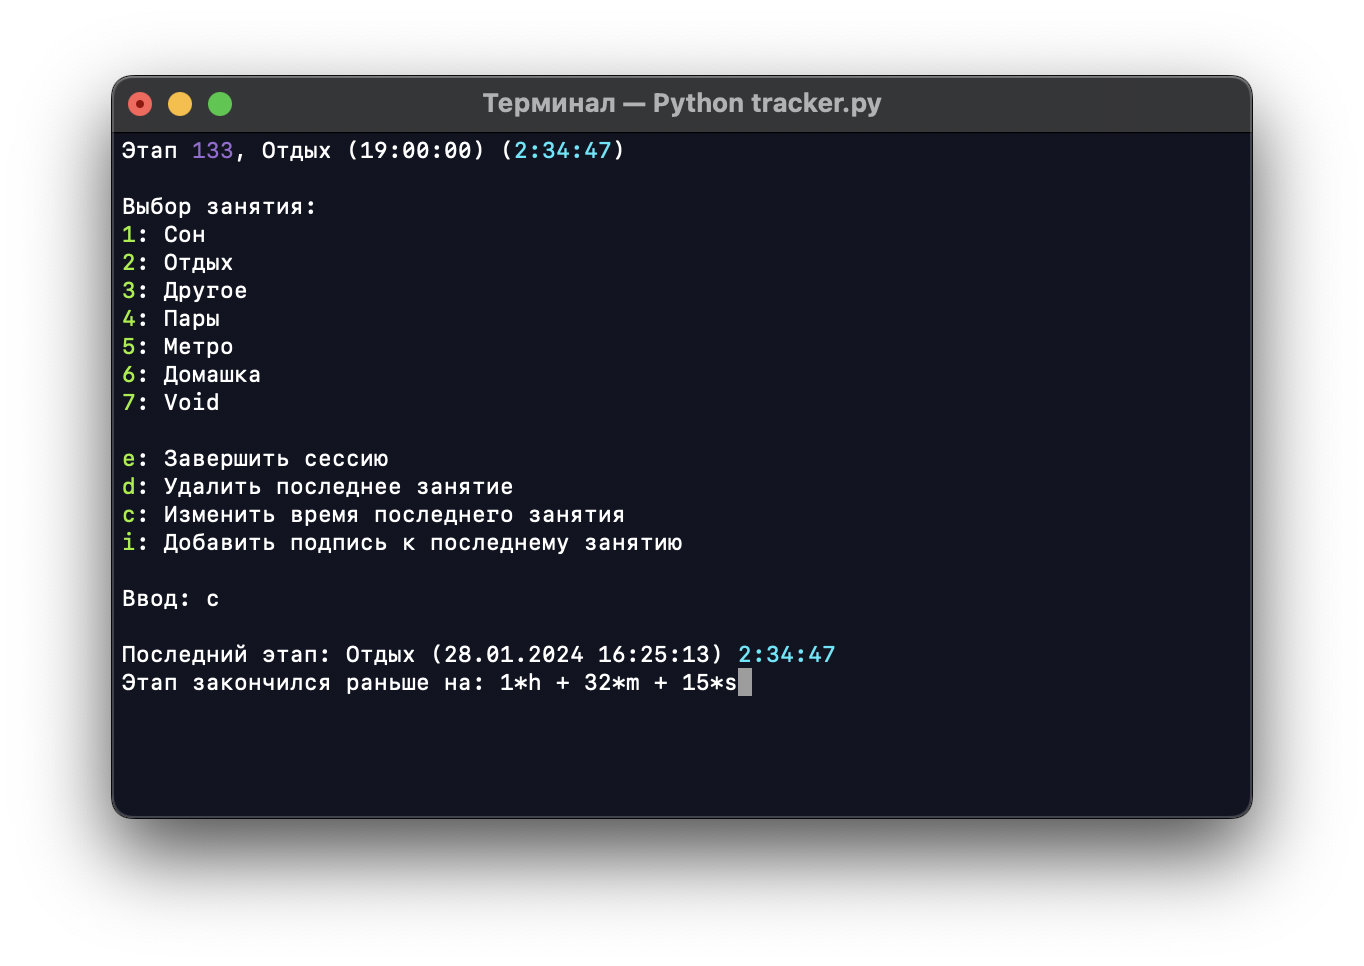
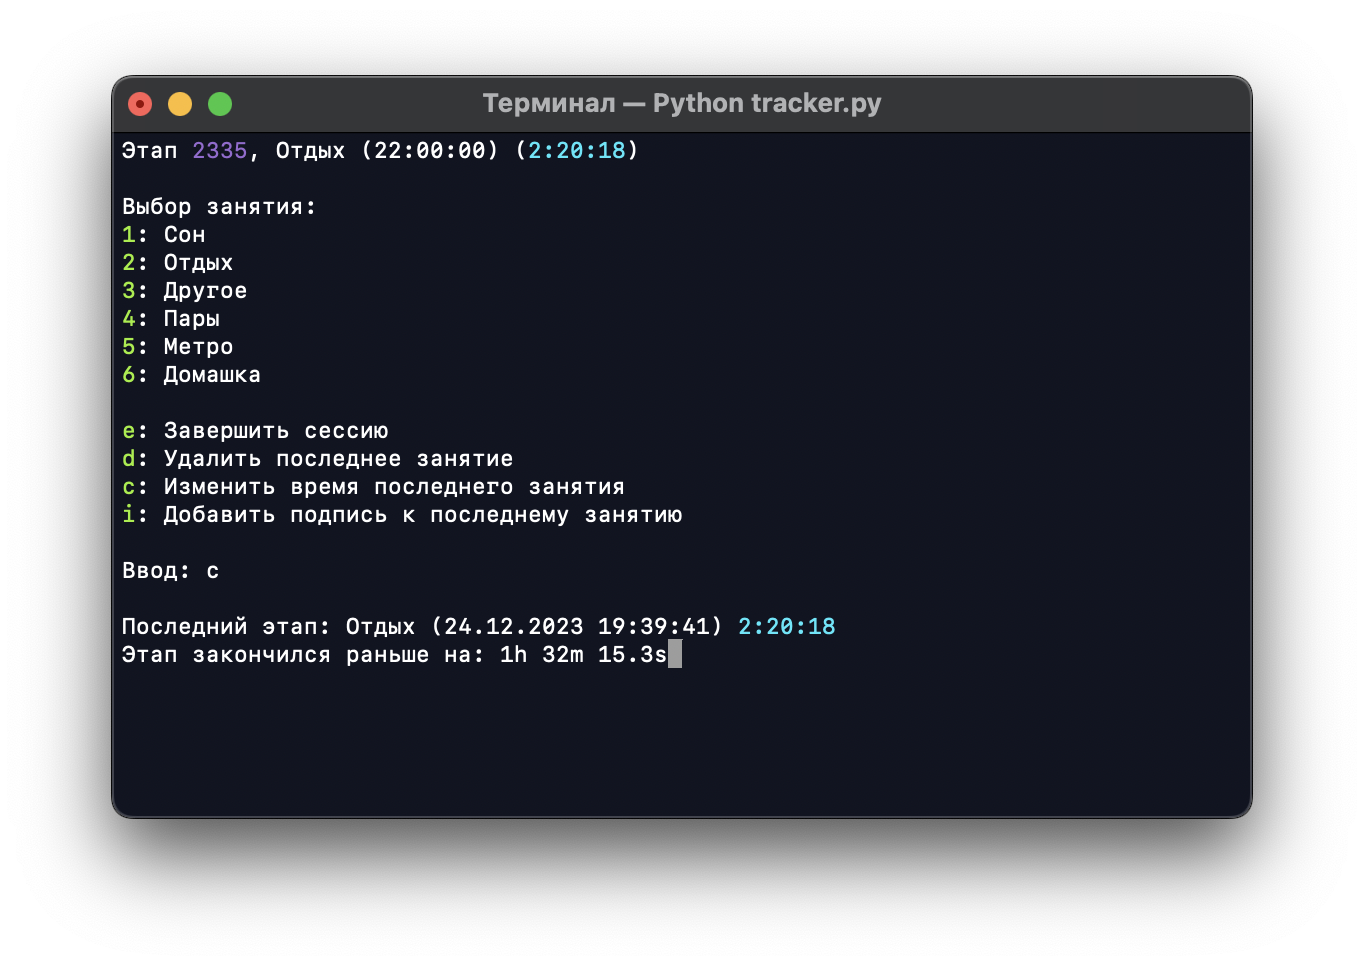
New `c`hange time string format

Changed region(s): [[0.0924, 0.4037, 0.6158, 0.7143], [0.1848, 0.1242, 0.3387, 0.1863], [0.3695, 0.1242, 0.4619, 0.1863]]

diff --git a/tracker.py b/tracker.py
@@ -1,4 +1,5 @@
 from time import time
+from re import sub, findall, fullmatch
 from datetime import datetime, timedelta
 from os import system, makedirs, path, name as os_name
 
@@ -187,21 +188,27 @@ while True:
         activity_lasts = timedelta(0, round(timestamp - activities[-1][1]))
         print(f"Последний этап: {activity_name} ({activity_start_time}) {cyan}{activity_lasts}{white}")
         
-        try: 
-            allocated_time = eval(input("Этап закончился раньше на: "))
-            
-            if allocated_time < activity_lasts.total_seconds():
-                timestamp -= allocated_time
+        input_offset = input("Этап закончился раньше на: ").strip()
 
+        # Validate string
+        if fullmatch(r"^((([-+]?(\d+)?(\.\d*)?))?([smhdw])?(\s|$))+", input_offset):
+            input_offset = sub(r"([-+]?\d+)(\s|$)", r"\1s ", input_offset)  # Translate values without type to seconds (1 -> 1s)
+            input_offset = sub(r"(^|\s)((-?\+?)([smhdw]))", r" \g<3>1\4 ", input_offset)  # Add values to lone types (h -> 1h)
+            input_offset = [(r[0], r[-1]) for r in findall(r"((-?|\+?)\d+(\.\d*)?)([smhdw])", input_offset)]  # Make (value, type) pairs
+
+            offset = 0
+            for pair in input_offset:
+                offset += float(pair[0]) * {'s': s, 'm': m, 'h': h, 'd': d, 'w': w}[pair[1]]
+
+            if offset < activity_lasts.total_seconds():
+                timestamp -= offset
                 activity_lasts = timedelta(0, round(timestamp - activities[-1][1]))
                 input(f"\nНовая продолжительность этапа: {cyan}{activity_lasts}{white}")
-
             else:
                 input(f"\n{red}Этап становится отрицательным, действие отменено{white}")
+        else:
+            input(f"\n{red}Недопустимая строка, действие отменено{white}")
         
-        except:
-            input(f"\n{red}Действие отменено{white}")
-
     # Add a note
     if session_id == len(ACTIVITIES) + 4:
         activity_name = activities[-1][0]
